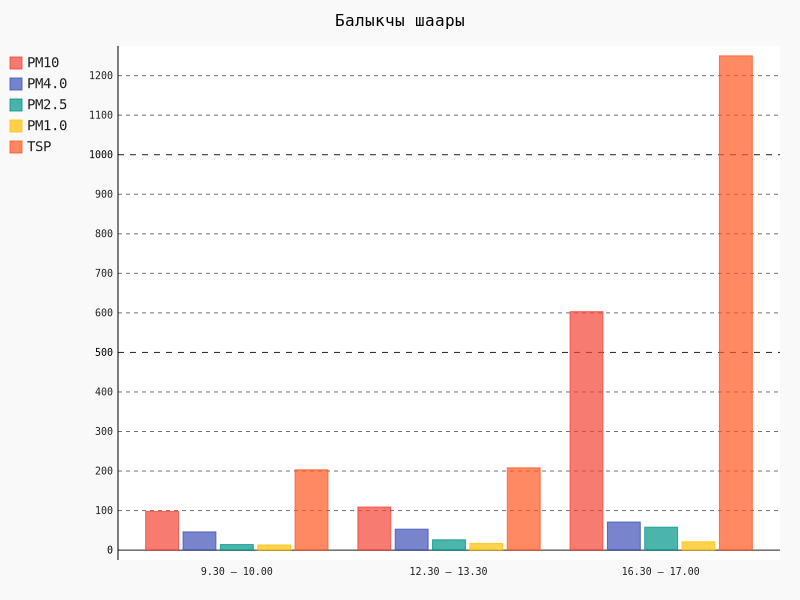
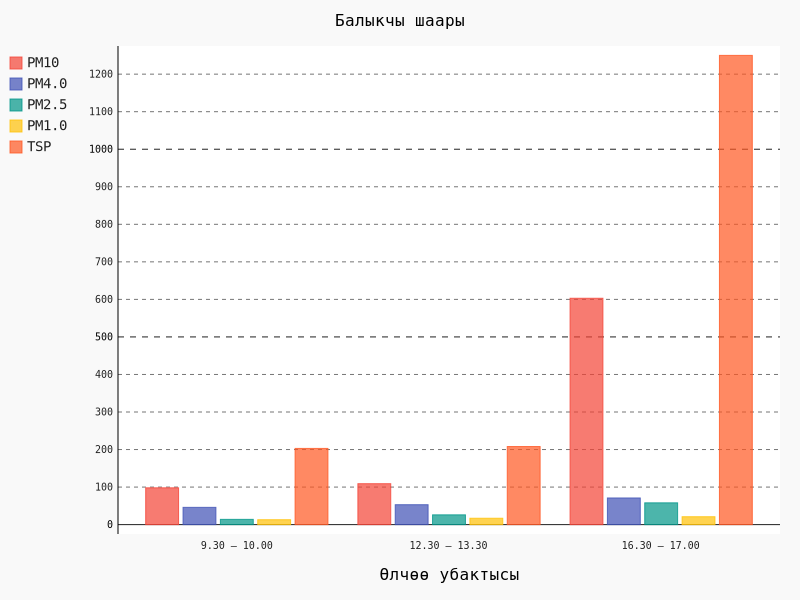
Finished build graphs

diff --git a/3rd_week/matplt/build_graphs2.py b/3rd_week/matplt/build_graphs2.py
@@ -1,0 +1,23 @@
+import pygal 
+import openpyxl
+
+filename = 'data2.xlsx'
+
+wb = openpyxl.load_workbook(filename)
+sheets = wb.get_sheet_names()
+sh_number = 1
+for sh in sheets:
+    sheet =  wb.get_sheet_by_name(sh)
+    for col in range(1, sheet.max_column, 2):   
+        x_labels = [sheet.cell(row=i, column=col).value for i in range(2, sheet.max_row + 1) if i != None]
+        rows = [sheet.cell(row=i, column=col+1).value for i in range(2, sheet.max_row + 1) if i != None]
+        device = sheet.cell(row=1, column=col).value
+
+        hist = pygal.Bar()
+        hist.title = sheet.title
+        hist.x_labels = x_labels
+        hist.add(device, rows)
+        device = device + str(sh_number)
+        hist.render_to_png('graphs2/{}.png'.format(device))
+        print(device)
+    sh_number +=1

diff --git a/3rd_week/matplt/build_graph.py b/3rd_week/matplt/build_graph.py
@@ -1,7 +1,7 @@
 import pygal 
 import openpyxl
 
-filename = 'example.xlsx'
+filename = 'data.xlsx'
 
 wb = openpyxl.load_workbook(filename)
 sheets = wb.get_sheet_names()
@@ -18,6 +18,7 @@ for sh in sheets:
 
     hist = pygal.Bar()
     hist.title = sheet.title
+    hist.x_title = "Өлчөө убактысы"
     hist.x_labels = time
 
     for i in range(len(columns)):
